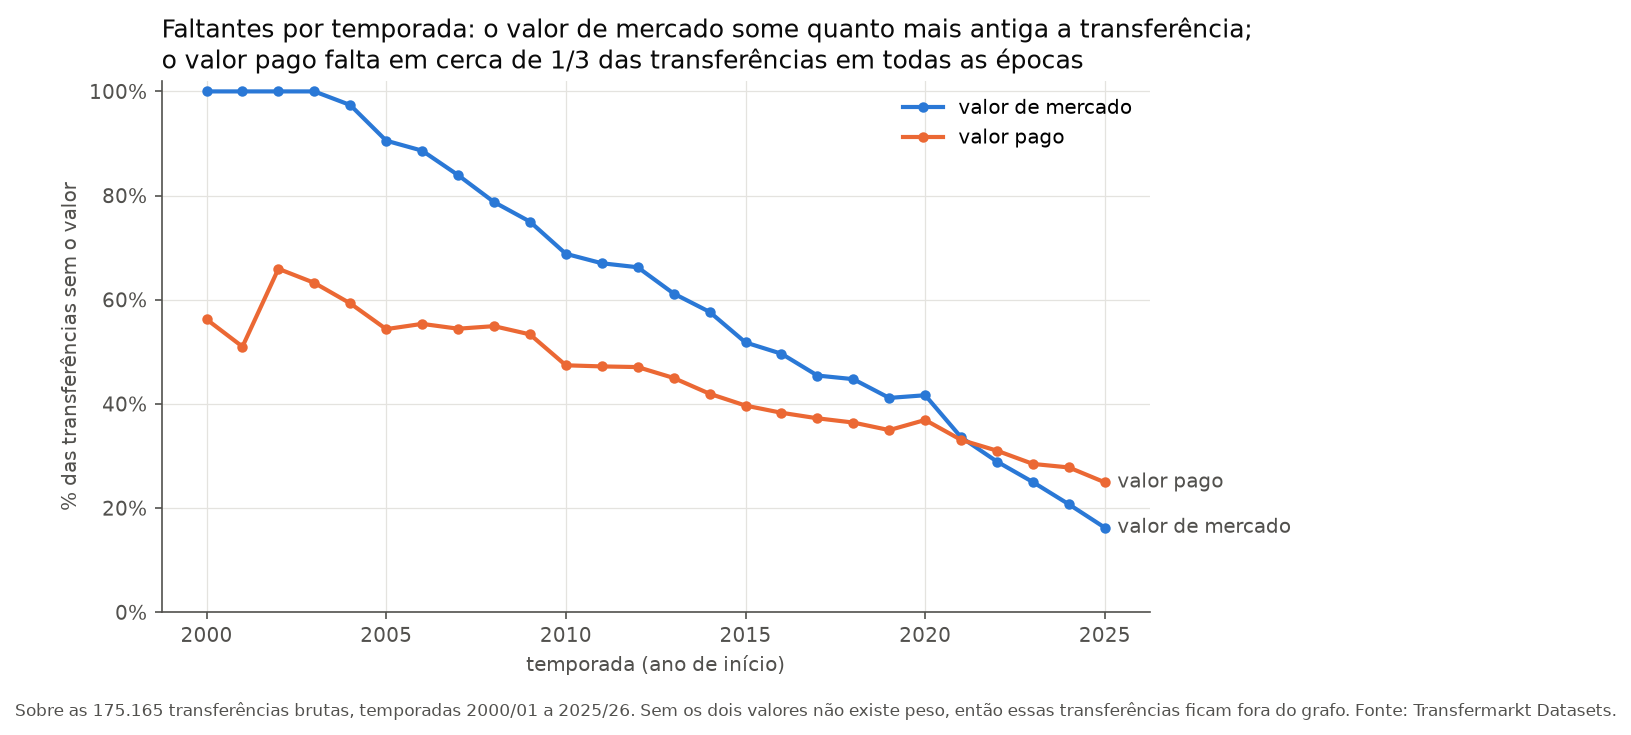
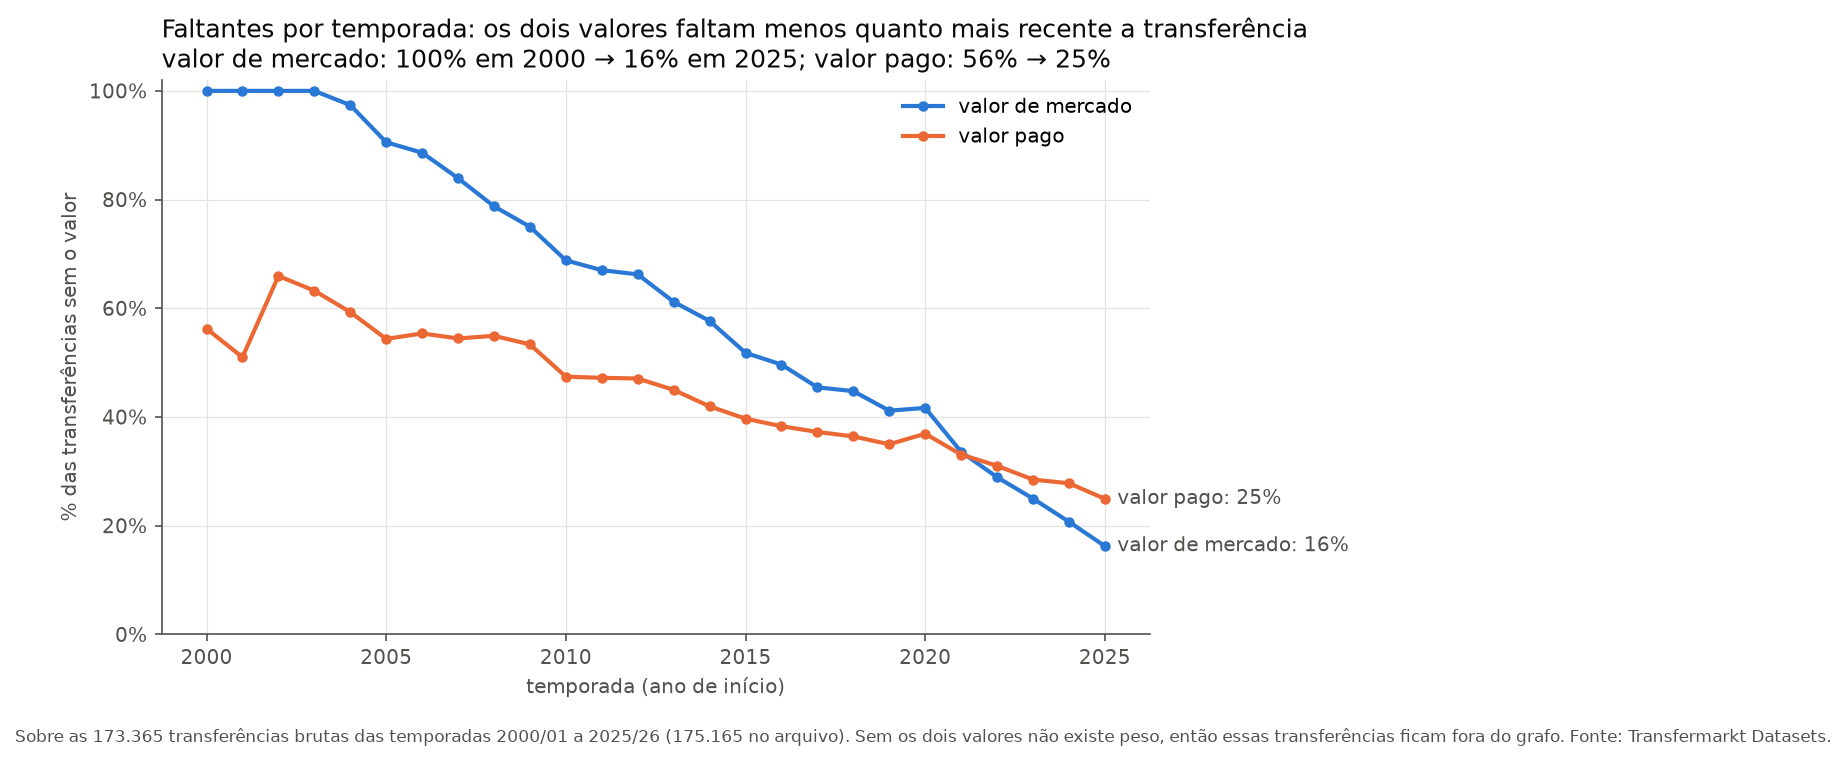
e3: titulo e rodape batem com os dados
O título dizia que o valor pago falta em cerca de 1/3 das transferências em
todas as épocas, mas a curva mostra 56% em 2000 e 25% em 2025 (55% em
2000–09, 39% em 2010–19, 30% a partir de 2020). O rodapé citava 175.165
transferências; o gráfico usa as 173.365 das temporadas 2000/01 a 2025/26.
O título passa a ser calculado dos dados e o relatório (parágrafo MAR/MNAR
do valor pago e nota E3) foi ajustado.

diff --git a/src/viz_parte2.py b/src/viz_parte2.py
@@ -199,22 +199,25 @@ def pesos(t, saida):
 def faltantes(d, saida):
     b = d.brutas.assign(temporada=d.brutas["transfer_season"].map(temporada))
     b = b[b["temporada"].between(2000, 2025)]
-    pct = b.groupby("temporada")[["transfer_fee", "market_value_in_eur"]].apply(lambda x: x.isna().mean())
-    fig, ax = plt.subplots(figsize=(8.5, 4.6))
+    faltas = b.groupby("temporada")[["transfer_fee", "market_value_in_eur"]].apply(lambda x: x.isna().mean())
+    mv, fee = faltas["market_value_in_eur"], faltas["transfer_fee"]
+    fig, ax = plt.subplots(figsize=(8.5, 4.8))
     for col, rotulo, cor in (("market_value_in_eur", "valor de mercado", CORES[0]),
                              ("transfer_fee", "valor pago", CORES[1])):
-        ax.plot(pct.index, pct[col], color=cor, lw=2, marker="o", ms=4, label=rotulo)
-        ax.annotate(rotulo, (pct.index[-1], pct[col].iloc[-1]), xytext=(6, 0), textcoords="offset points",
-                    va="center", color=TEXTO_2)
+        ax.plot(faltas.index, faltas[col], color=cor, lw=2, marker="o", ms=4, label=rotulo)
+        ax.annotate(f"{rotulo}: {pct(faltas[col].iloc[-1])}", (faltas.index[-1], faltas[col].iloc[-1]),
+                    xytext=(6, 0), textcoords="offset points", va="center", color=TEXTO_2)
     ax.set_ylim(0, 1.02)
-    ax.yaxis.set_major_formatter(PercentFormatter(1))
+    ax.yaxis.set_major_formatter(FuncFormatter(pct_eixo))
     ax.set_xlabel("temporada (ano de início)")
     ax.set_ylabel("% das transferências sem o valor")
-    ax.set_title("Faltantes por temporada: o valor de mercado some quanto mais antiga a transferência;\n"
-                 "o valor pago falta em cerca de 1/3 das transferências em todas as épocas")
+    ax.set_title("Faltantes por temporada: os dois valores faltam menos quanto mais recente a transferência\n"
+                 f"valor de mercado: {pct(mv.iloc[0])} em {mv.index[0]} → {pct(mv.iloc[-1])} em {mv.index[-1]}; "
+                 f"valor pago: {pct(fee.iloc[0])} → {pct(fee.iloc[-1])}")
     ax.legend(loc="upper right")
-    rodape(fig, "Sobre as 175.165 transferências brutas, temporadas 2000/01 a 2025/26. Sem os dois valores não "
-                "existe peso, então essas transferências ficam fora do grafo. Fonte: Transfermarkt Datasets.")
+    rodape(fig, f"Sobre as {br(len(b))} transferências brutas das temporadas 2000/01 a 2025/26 "
+                f"({br(len(d.brutas))} no arquivo). Sem os dois valores não existe peso, então essas "
+                "transferências ficam fora do grafo. Fonte: Transfermarkt Datasets.")
     return salvar(fig, Path(saida) / "e3_faltantes.png")
 
 

diff --git a/docs/parte2/relatorio_parte2.md b/docs/parte2/relatorio_parte2.md
@@ -72,10 +72,12 @@ data. Os 8 self-loops saem do grafo. A posição desconhecida vem gravada como o
 - **Valor de mercado — MAR em relação à temporada.** A ausência depende de uma variável observada:
   é 100% até 2003, cai de 97% (2004) para 16% (2025) (`e3_faltantes.png`). O Transfermarkt só
   passou a registrar valor de mercado de forma sistemática a partir de meados dos anos 2000.
-- **Valor pago — parte MAR, parte MNAR.** Fica em torno de 1/3 em todas as épocas, e o valor de
-  mercado mediano das transferências sem valor pago (250 mil) é metade do das com valor pago
-  (500 mil): falta mais em transferências de jogadores baratos, o que é observável (MAR). Mas uma
-  parte é "valor não divulgado", que depende do próprio valor ausente (MNAR).
+- **Valor pago — parte MAR, parte MNAR.** Também falta menos nas temporadas recentes, mas cai bem
+  menos que o valor de mercado: 55% das transferências de 2000–2009, 39% em 2010–2019 e 30% a
+  partir de 2020 (35% no total). O valor de mercado mediano das transferências sem valor pago
+  (250 mil) é metade do das com valor pago (500 mil): falta mais em transferências antigas e de
+  jogadores baratos, o que é observável (MAR). Mas uma parte é "valor não divulgado", que depende
+  do próprio valor ausente (MNAR).
 - **Liga do destino — ausência estrutural.** 26,85% das transferências usadas vão para clubes fora
   das ligas que o dataset acompanha. Não é erro: virou a categoria "fora das ligas cobertas".
 - Empresário (32,79%) é tratado como categoria ("sem empresário"); idade, posição, pé e altura
@@ -280,9 +282,10 @@ têm sinal; o bin central mostra as 978 vendas pagas exatamente pelo valor de me
 dois painéis com o mesmo eixo x em vez de barras sobrepostas.
 
 **E3 — `e3_faltantes.png` (exploratória).** % de transferências sem valor de mercado e sem valor
-pago por temporada. Insight: o valor de mercado falta por causa da época (MAR); o valor pago falta
-num patamar constante. Por que esse gráfico: linha para evolução no tempo; as duas séries têm a
-mesma unidade (%), então dividem o mesmo eixo sem distorção.
+pago por temporada. Insight: os dois faltam menos quanto mais recente a transferência, mas o valor
+de mercado depende muito mais da época (100% até 2003, 16% em 2025) que o valor pago (56% em 2000,
+25% em 2025). Por que esse gráfico: linha para evolução no tempo; as duas séries têm a mesma
+unidade (%), então dividem o mesmo eixo sem distorção.
 
 **E4 — `e4_relacoes.png` (exploratória, multivariada).** % de transferências com peso negativo por
 faixa etária, posição, pé e empresário, com a média geral tracejada. Insight: a idade separa muito
